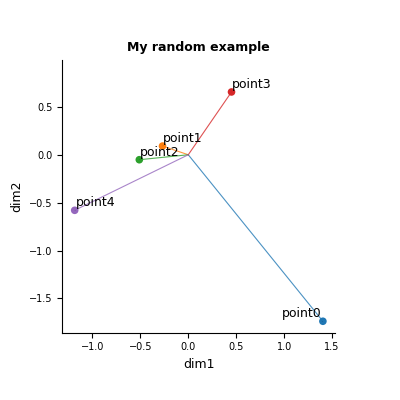
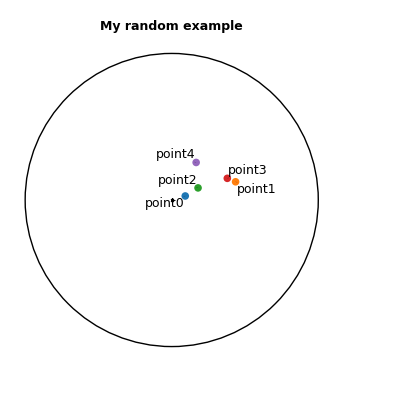
added an option to plot hyperbolic embeddings

diff --git a/pplots.py b/pplots.py
@@ -51,7 +51,8 @@ def plot_embedding(
         file_format=None,
         labels_name=None,
         width_ratios=[7, 1],
-        bbox=(1.3, 0.7)
+        bbox=(1.3, 0.7),
+        is_hyperbolic=False
     ):
     
     # create data structure suitable for embedding
@@ -75,7 +76,13 @@ def plot_embedding(
     if (col_dict is None) and not (labels is None):
         col_dict = get_colors(labels)
 
-    
+    if is_hyperbolic:
+        circle = plt.Circle((0, 0), radius=1,  fc='none', color='black')
+        plt.gca().add_patch(circle)
+        ax.plot(0, 0, 'x', c=(0, 0, 0), ms=2)
+        ax.axis('off')
+
+
     sns.scatterplot(
         x="dim1", 
         y="dim2", 
@@ -136,6 +143,7 @@ def plot_embedding(
         ax.axis('equal')
         ax.axis('square')
 
+    
     if title:
         ax.set_title(title, fontsize=fontsize, fontweight="bold")
 
@@ -197,7 +205,7 @@ def plot_similarity(
         vmin=-1, vmax=1,
         fmt=file_format
     )
-    
+
     sns_plot.ax_heatmap.xaxis.set_tick_params(labelsize=fontsize)
     sns_plot.ax_heatmap.yaxis.set_tick_params(labelsize=fontsize)
     sns_plot.ax_heatmap.axis('equal')

diff --git a/example.py b/example.py
@@ -4,16 +4,17 @@ from pplots import *
 
 if __name__ == "__main__":
     n = 5
-    emb = np.random.normal(0, 1, [n, 2])
+    emb = np.random.uniform(0, 0.5, [n, 2])
     labels = ['point'+str(i) for i in range(n)]
 
     plot_embedding(
         emb, 
         labels,
-        show_lines=True,
+        show_lines=False,
         show_text=True,
         title='My random example',
-        file_name='example.png'
+        file_name='example.png',
+        is_hyperbolic=True
         )
 
     plot_similarity(

diff --git a/README.md b/README.md
@@ -1,1 +1,14 @@
 # pretty-plots
+
+In my projects, I have to plot lots of embeddings, and it happens that I keep reusing my plotting functions from a project to a project. Finally, I decided to make it more structured and created a mini-library mainly for myself, but maybe it could be useful for someone else too.
+
+Dependencies you will need:
+
+- python 
+- matplotlib
+- seaborn
+- pandas
+- adjust_text
+
+
+These functions are mostly wrappers around seaborn functions, but it is quite convenient to me not to adjust them every time and produce plots ready to put into a manuscript or a presentation.
